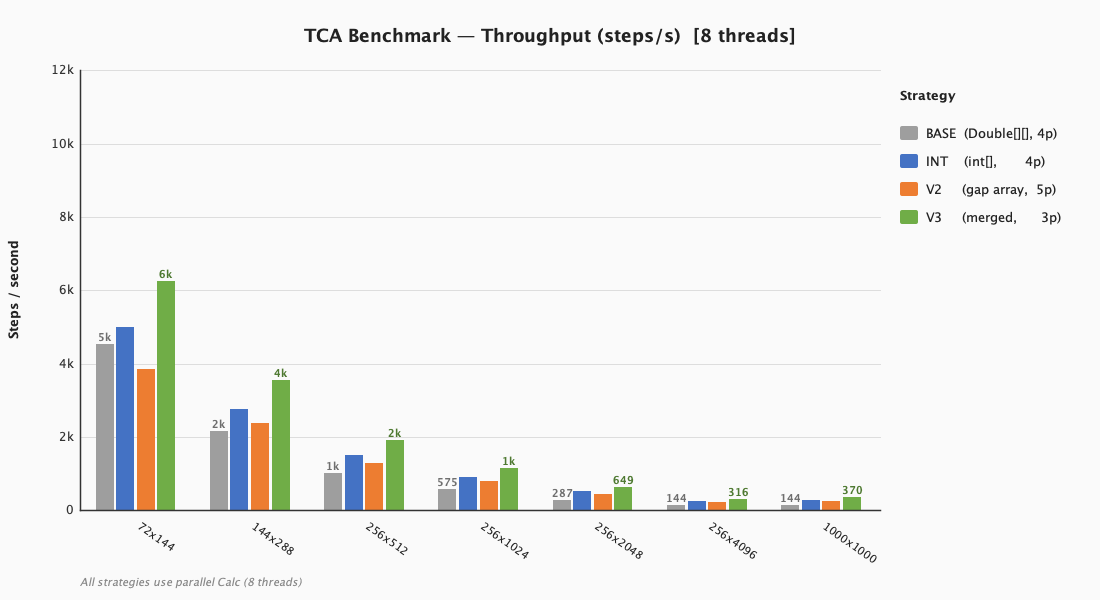
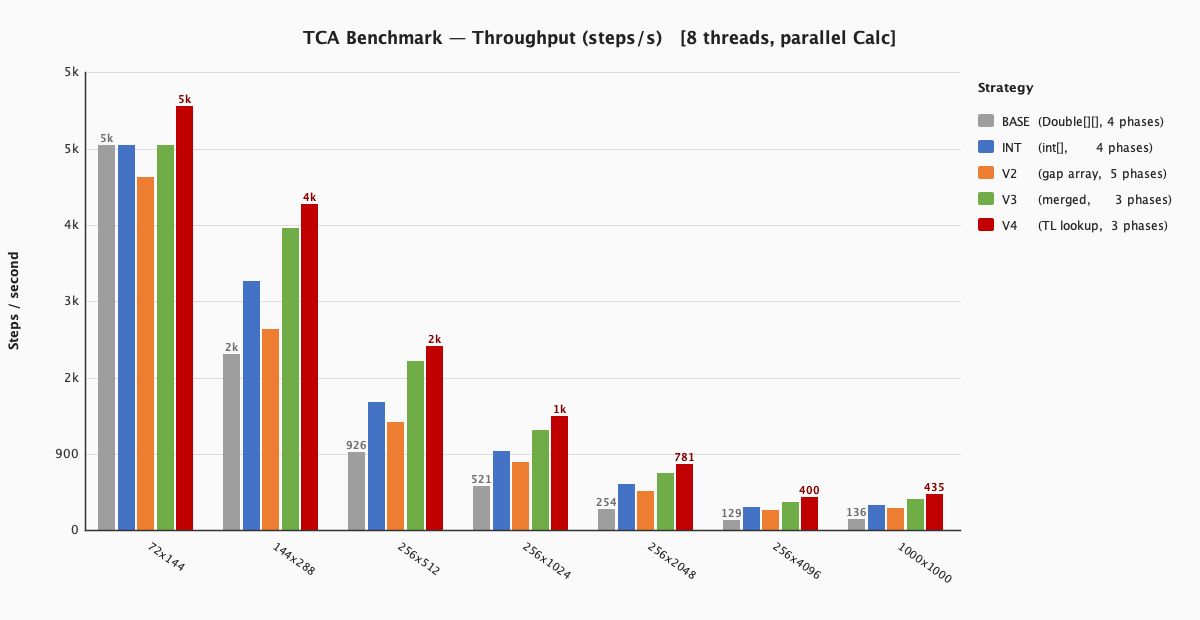
Add TCAv4

diff --git a/src/Benchmark.java b/src/Benchmark.java
@@ -19,7 +19,8 @@ public class Benchmark {
         BASELINE,   // TCA  + Array2D   (4 фазы)
         INT,        // TCA  + Array2DInt (4 фазы)
         V2,         // TCAv2+ Array2DInt (5 фаз: computeGap + move + turns + lights)
-        V3          // TCAv3+ Array2DInt (3 фазы: moveAndLights + turns)
+        V3,         // TCAv3+ Array2DInt (3 фазы: moveAndLights + turns)
+        V4          // TCAv4+ Array2DInt (3 фазы + precomputed TL lookup)
     }
 
     public static void main(String[] args) throws Exception {
@@ -35,14 +36,15 @@ public class Benchmark {
         measureMs(72, 144, WARMUP, MEASURE, Strategy.V3);
         System.out.println("done\n");
 
-        String header = String.format("%-14s  %-20s  %-20s  %-20s  %-20s  %s  %s  %s",
+        String header = String.format("%-14s  %-20s  %-20s  %-20s  %-20s  %-20s  %s  %s  %s  %s",
                 "Grid",
                 "TCA+Array2D (base)",
                 "TCA+Array2DInt",
                 "TCAv2+Array2DInt",
                 "TCAv3+Array2DInt",
-                "SpeedupInt", "SpeedupV2", "SpeedupV3");
-        String sep = "-".repeat(130);
+                "TCAv4+Array2DInt",
+                "Int×", "V2×", "V3×", "V4×");
+        String sep = "-".repeat(148);
         System.out.println(header);
         System.out.println(sep);
 
@@ -54,7 +56,7 @@ public class Benchmark {
         try (PrintWriter txt = new PrintWriter(basePath + ".txt");
              PrintWriter csv = new PrintWriter(basePath + ".csv")) {
 
-            txt.println("Benchmark: TCA vs Array2DInt vs TCAv2 vs TCAv3");
+            txt.println("Benchmark: TCA vs Array2DInt vs TCAv2 vs TCAv3 vs TCAv4");
             txt.println("warmup=" + WARMUP + "  measure=" + MEASURE
                     + "  runs=" + RUNS + "  seed=" + SEED
                     + "  threads=" + Calc.N_CPU);
@@ -76,31 +78,36 @@ public class Benchmark {
                 long[] msInt  = new long[RUNS];
                 long[] msV2   = new long[RUNS];
                 long[] msV3   = new long[RUNS];
+                long[] msV4   = new long[RUNS];
                 for (int r = 0; r < RUNS; r++) {
                     msBase[r] = measureMs(w, h, 0, MEASURE, Strategy.BASELINE);
                     msInt[r]  = measureMs(w, h, 0, MEASURE, Strategy.INT);
                     msV2[r]   = measureMs(w, h, 0, MEASURE, Strategy.V2);
                     msV3[r]   = measureMs(w, h, 0, MEASURE, Strategy.V3);
+                    msV4[r]   = measureMs(w, h, 0, MEASURE, Strategy.V4);
                 }
                 long mBase = median(msBase), mInt = median(msInt),
-                     mV2   = median(msV2),   mV3  = median(msV3);
+                     mV2   = median(msV2),   mV3  = median(msV3),
+                     mV4   = median(msV4);
                 double sBase = sps(mBase), sInt = sps(mInt),
-                       sV2   = sps(mV2),   sV3  = sps(mV3);
-                double supInt = sInt / sBase, supV2 = sV2 / sBase, supV3 = sV3 / sBase;
+                       sV2   = sps(mV2),   sV3  = sps(mV3),
+                       sV4   = sps(mV4);
+                double supInt = sInt/sBase, supV2 = sV2/sBase,
+                       supV3  = sV3/sBase,  supV4 = sV4/sBase;
 
                 String line = String.format(
-                        "%-14s  %5d ms (%6.0f s/s)   %5d ms (%6.0f s/s)   %5d ms (%6.0f s/s)   %5d ms (%6.0f s/s)   %.2fx       %.2fx       %.2fx",
+                        "%-14s  %5d ms (%5.0f/s)  %5d ms (%5.0f/s)  %5d ms (%5.0f/s)  %5d ms (%5.0f/s)  %5d ms (%5.0f/s)  %.2fx  %.2fx  %.2fx  %.2fx",
                         w + "x" + h,
-                        mBase, sBase, mInt, sInt, mV2, sV2, mV3, sV3,
-                        supInt, supV2, supV3);
+                        mBase, sBase, mInt, sInt, mV2, sV2, mV3, sV3, mV4, sV4,
+                        supInt, supV2, supV3, supV4);
                 System.out.println(line);
                 txt.println(line);
 
                 csv.printf(Locale.US,
-                        "%dx%d,%d,%d,%d,%.0f,%d,%.0f,%d,%.0f,%d,%.0f,%.4f,%.4f,%.4f%n",
+                        "%dx%d,%d,%d,%d,%.0f,%d,%.0f,%d,%.0f,%d,%.0f,%d,%.0f,%.4f,%.4f,%.4f,%.4f%n",
                         w, h, w, h,
-                        mBase, sBase, mInt, sInt, mV2, sV2, mV3, sV3,
-                        supInt, supV2, supV3);
+                        mBase, sBase, mInt, sInt, mV2, sV2, mV3, sV3, mV4, sV4,
+                        supInt, supV2, supV3, supV4);
             }
 
             System.out.printf("%nSaved: %s.txt  %s.csv%n", basePath, basePath);
@@ -114,6 +121,7 @@ public class Benchmark {
         TCA tca = switch (s) {
             case V2 -> new TCAv2();
             case V3 -> new TCAv3();
+            case V4 -> new TCAv4();
             default -> new TCA();
         };
 
@@ -121,6 +129,7 @@ public class Benchmark {
         Grid driver = filled(factory, w, h, 0.0);
         Grid lane   = factory.create(w, h);
         run(new MapGen(), "generate", list(driver), list(lane), 0, rng);
+        if (s == Strategy.V4) ((TCAv4) tca).init(lane);
 
         Grid pos    = factory.create(w, h);
         run(tca, "putVehicle", list(lane), list(pos), 0, rng);
@@ -145,7 +154,7 @@ public class Benchmark {
 
     private static void step(TCA tca, Grid lane, Grid[] spd, Grid[] len,
                               Grid temp, Grid gap, Strategy s, Random rng) throws Exception {
-        if (s == Strategy.V3) {
+        if (s == Strategy.V3 || s == Strategy.V4) {
             run(tca, "moveAndLightsPhase", list(lane, spd[0], len[0], temp), list(spd[1], len[1]), WS, rng);
             swap(spd); swap(len);
             run(tca, "turnLeftPhase",  list(lane, spd[0], len[0]), list(spd[1], len[1]), WS, rng);

diff --git a/src/TCAv4.java b/src/TCAv4.java
@@ -1,0 +1,52 @@
+public class TCAv4 extends TCAv3 {
+
+    private short[][] weTL;
+    private short[][] snTL;
+
+    public void init(Grid lane) {
+        int w = lane.width(), h = lane.height();
+        weTL = new short[w][h];
+        snTL = new short[w][h];
+        for (int x = 0; x < w; x++) {
+            for (int y = 0; y < h; y++) {
+                weTL[x][y] = scanWE(lane, x, y, w, h);
+                snTL[x][y] = scanSN(lane, x, y, w, h);
+            }
+        }
+    }
+
+    private static short scanWE(Grid lane, int ax, int ay, int w, int h) {
+        for (int xOff = 1; xOff <= MAX_VEHICLE_VISIBILITY; xOff++) {
+            for (int yOff = -CROSSING_WIDTH; yOff <= CROSSING_WIDTH; yOff++) {
+                int nx = ax + xOff, ny = ay + yOff;
+                if (nx < 0 || nx >= w || ny < 0 || ny >= h) continue;
+                Double v = lane.get(nx, ny);
+                if (v != null && v.intValue() == LANE_TRAFFIC_LIGHTS)
+                    return (short) ((xOff << 3) | (yOff + 4));
+            }
+        }
+        return 0;
+    }
+
+    private static short scanSN(Grid lane, int ax, int ay, int w, int h) {
+        for (int xOff = 1; xOff <= MAX_VEHICLE_VISIBILITY; xOff++) {
+            for (int yOff = -CROSSING_WIDTH; yOff <= CROSSING_WIDTH; yOff++) {
+                int nx = ax + yOff, ny = ay - xOff;
+                if (nx < 0 || nx >= w || ny < 0 || ny >= h) continue;
+                Double v = lane.get(nx, ny);
+                if (v != null && v.intValue() == LANE_TRAFFIC_LIGHTS)
+                    return (short) ((xOff << 3) | (yOff + 4));
+            }
+        }
+        return 0;
+    }
+
+    @Override
+    public int[] findTrafficLights(InputConvolveWindow lane, boolean iAmSNVehicle) {
+        if (weTL == null) return super.findTrafficLights(lane, iAmSNVehicle);
+        short v = iAmSNVehicle ? snTL[lane.getArrayX()][lane.getArrayY()]
+                               :  weTL[lane.getArrayX()][lane.getArrayY()];
+        if (v == 0) return null;
+        return new int[]{ v >> 3, (v & 7) - 4 };
+    }
+}

diff --git a/src/Main.java b/src/Main.java
@@ -24,11 +24,12 @@ public class Main {
 
         TCA tca;
         switch (ver) {
+            case "v4":  tca = new TCAv4(); break;
             case "v3":  tca = new TCAv3(); break;
             case "v2":  tca = new TCAv2(); break;
             case "tca": tca = new TCA();   break;
             default:
-                System.err.println("tca: tca | v2 | v3");
+                System.err.println("tca: tca | v2 | v3 | v4");
                 System.exit(1); return;
         }
 
@@ -53,6 +54,8 @@ public class Main {
 
         Grid temperature = fill(factory, width, height, 20.0);
         Grid gap = (tca instanceof TCAv2) ? factory.create(width, height) : null;
+
+        if (tca instanceof TCAv4) ((TCAv4) tca).init(lane);
 
         long tInit = System.nanoTime();
         System.out.printf("init done in %d ms%n", (tInit - t0) / 1_000_000);
